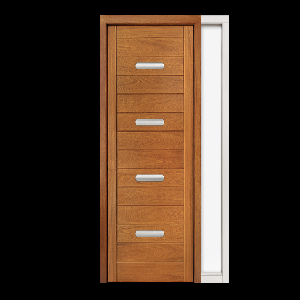
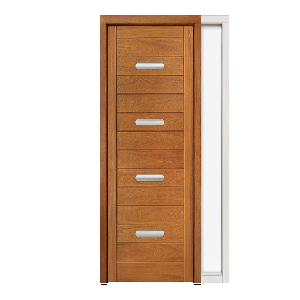
pdf fixes for chrome

diff --git a/pbc.php b/pbc.php
@@ -864,7 +864,7 @@ class PBCPlugin
 					        $html2pdf->setTestTdInOnePage(false);
 					        $html2pdf->writeHTML($content['response']);
 					        $html2pdf->Output("Budget Configurator ".date('Y-m-d H:i').".pdf");
-					        $html2pdf->close();
+					        //$html2pdf->close();
 					    } catch (Html2PdfException $e) {
 					        $formatter = new ExceptionFormatter($e);
 					        echo "Unexpected Error!<br>Can't load PDF this time!<br>".$formatter->getHtmlMessage();
